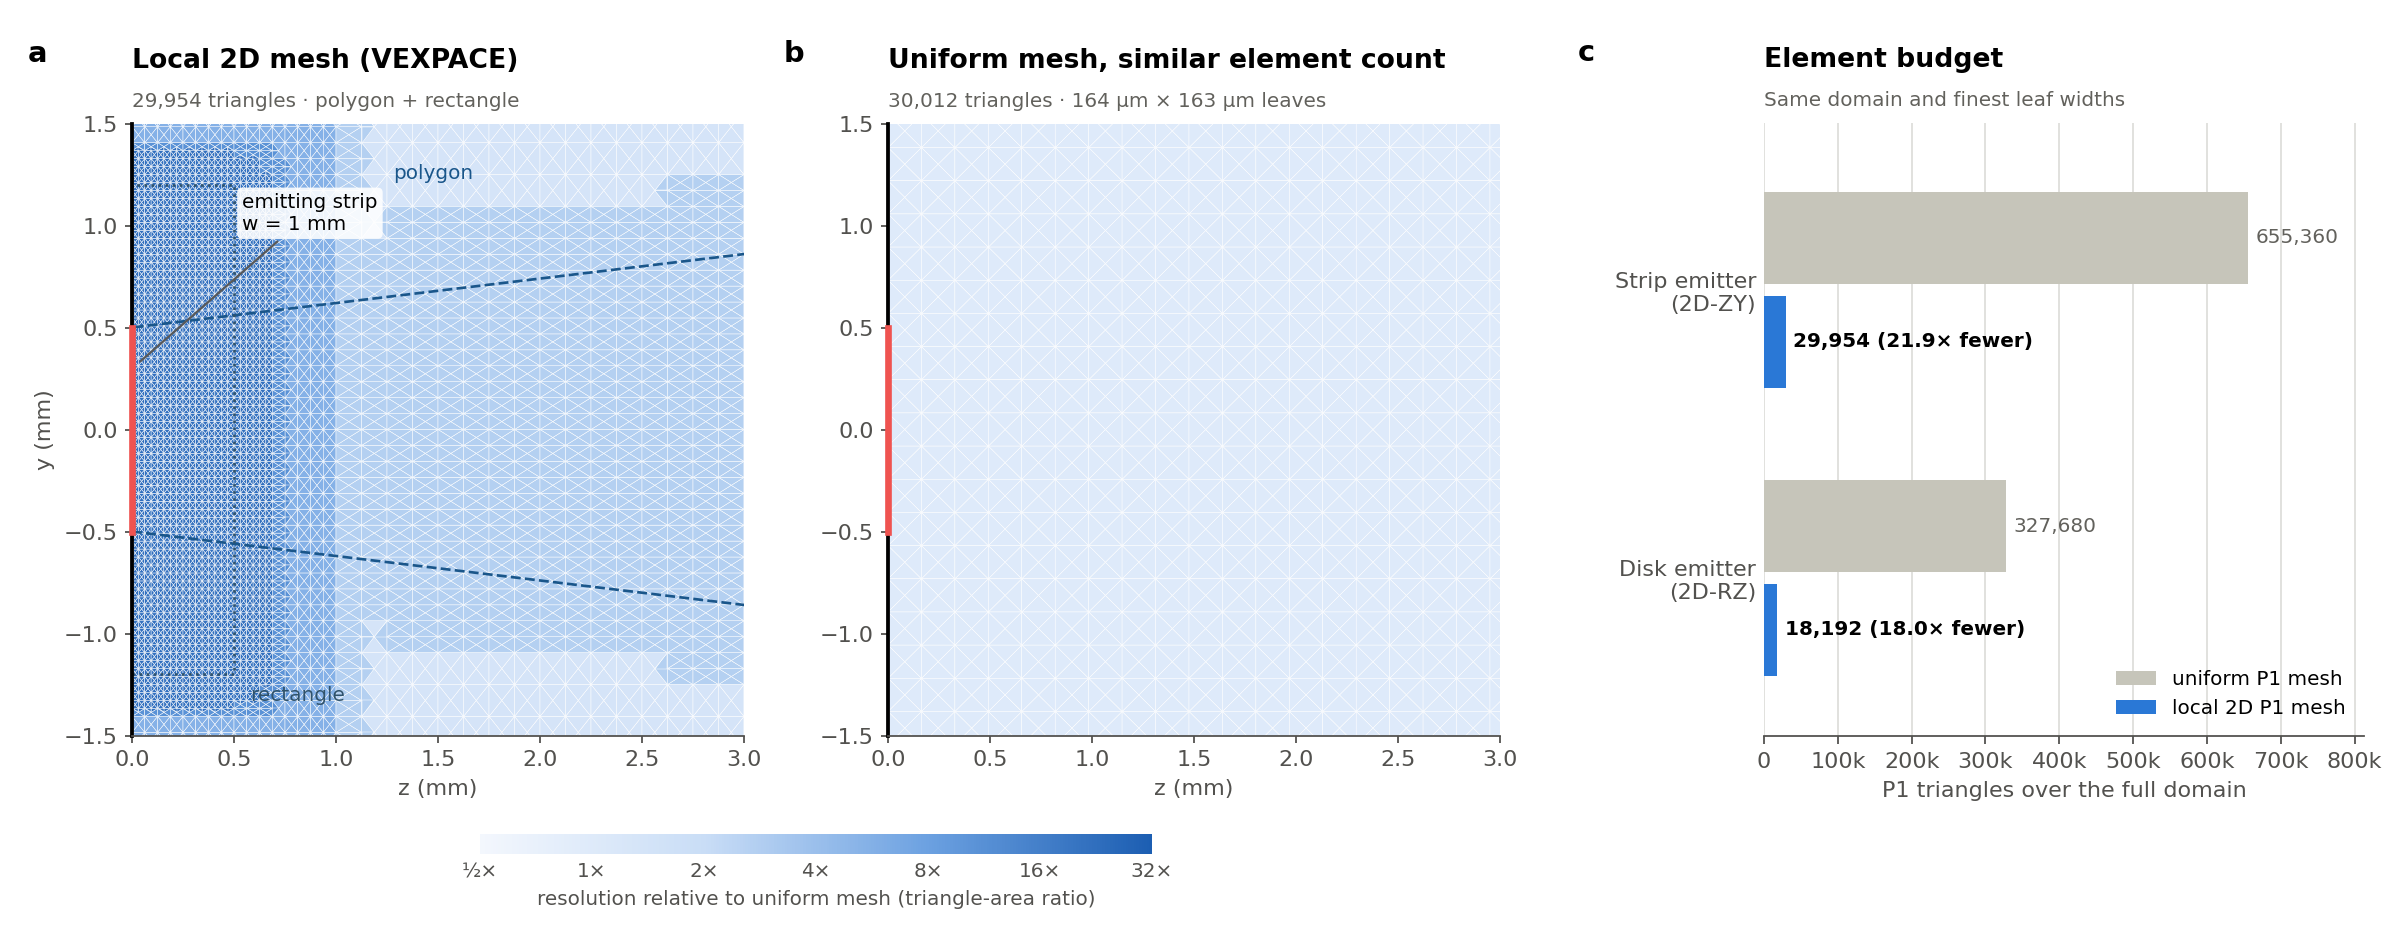
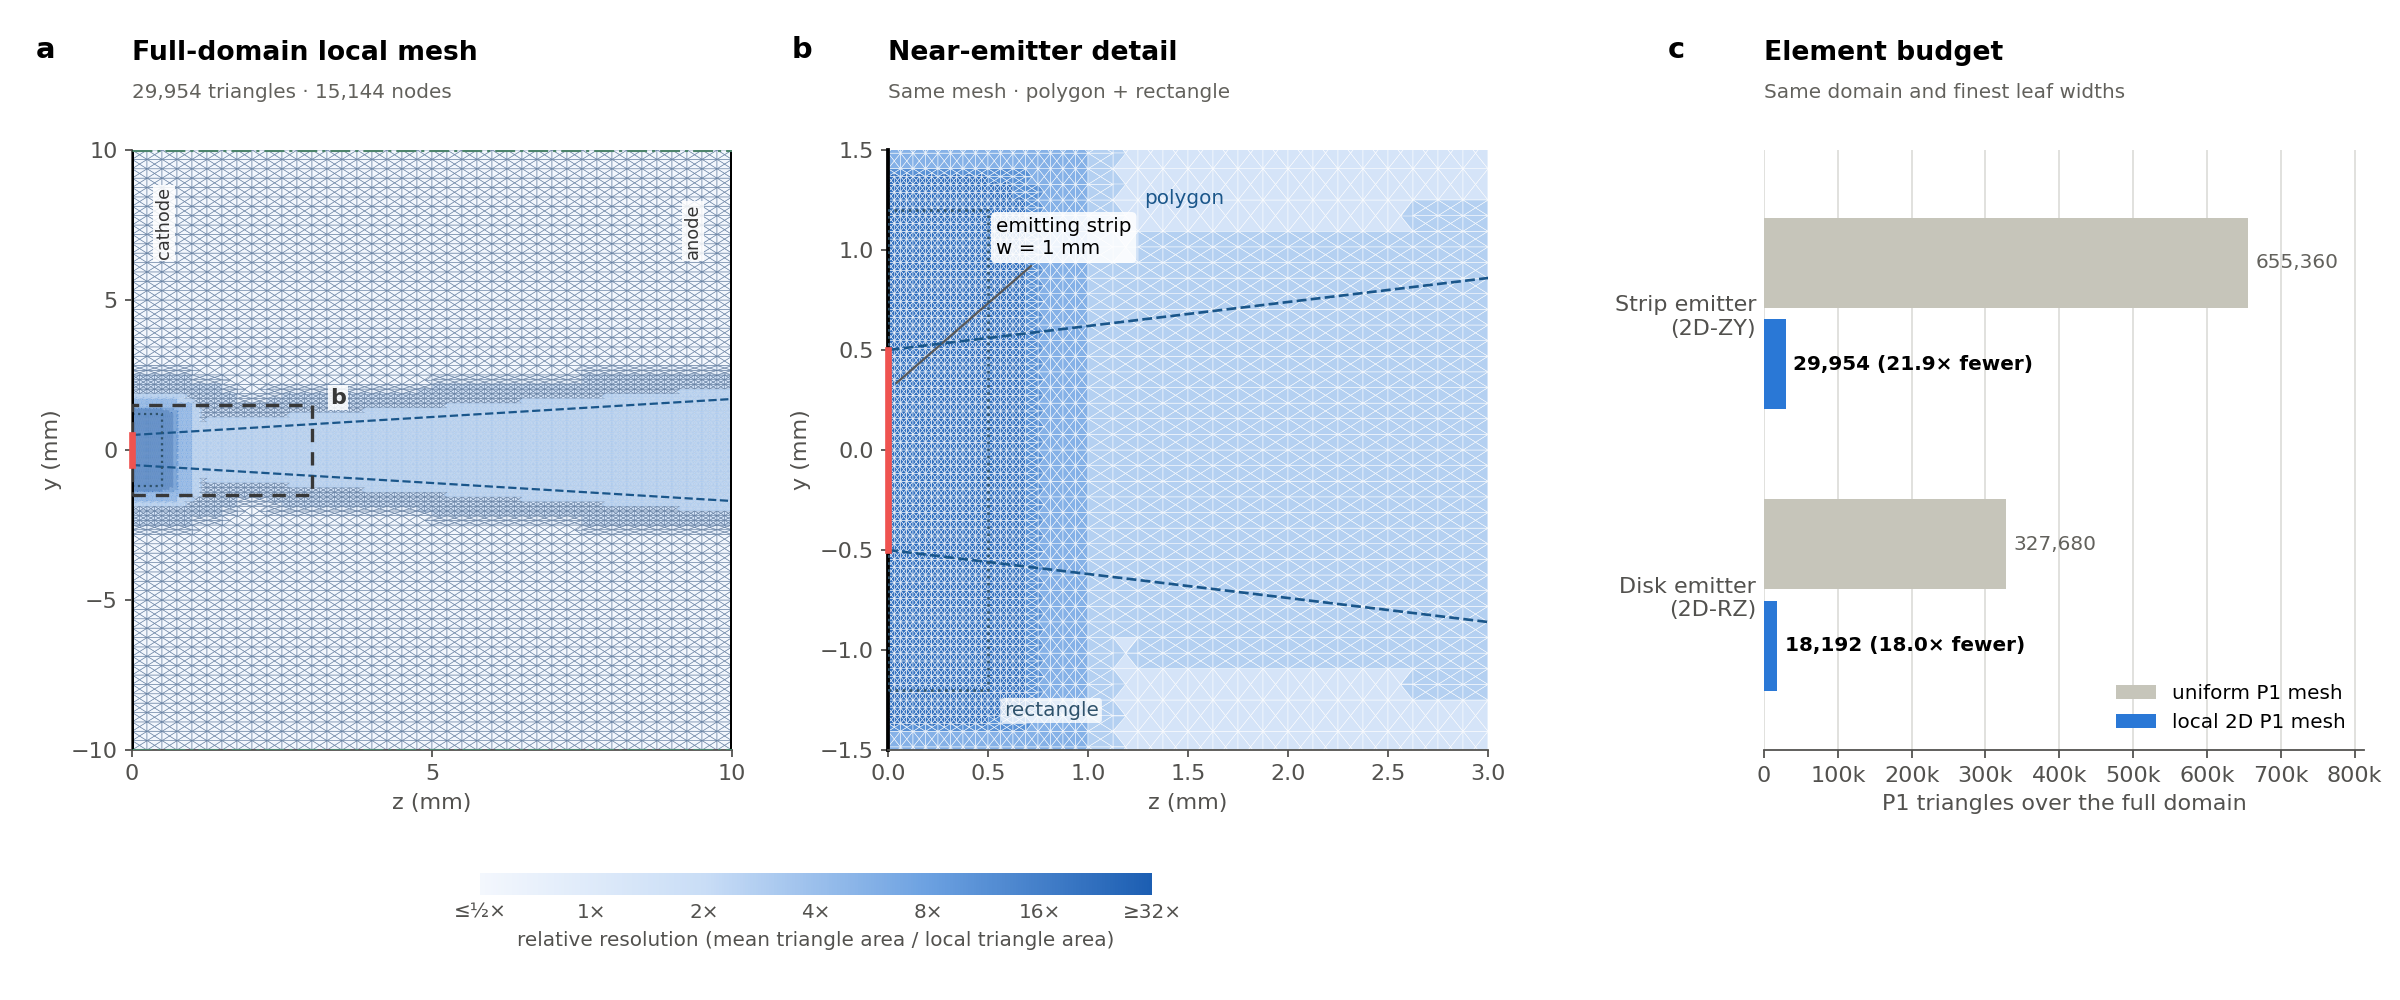
Redesign mesh figure with full domain and equal-sized detail panels

diff --git a/docs/make_mesh_refinement.py b/docs/make_mesh_refinement.py
@@ -1,4 +1,4 @@
-"""Reproduce the README local-P1 / uniform-P1 mesh comparison from actual meshes.
+"""Reproduce the README full-domain / detail / element-budget figure from actual meshes.
 
 Run with tfgpu Python: python docs/make_mesh_refinement.py
 The saved models describe mesh demonstrations, not new PIC limit measurements.
@@ -6,7 +6,6 @@ The saved models describe mesh demonstrations, not new PIC limit measurements.
 from pathlib import Path
 import argparse
 import json
-import math
 import numpy as np
 import matplotlib.pyplot as plt
 from matplotlib.collections import PolyCollection
@@ -54,17 +53,6 @@ def mesh_metrics(model):
     return mesh,metrics
 
 
-def uniform_triangles(bounds,nz,ny):
-    z=np.linspace(bounds[0,0],bounds[1,0],nz+1)
-    y=np.linspace(bounds[0,1],bounds[1,1],ny+1)
-    za,ya=np.meshgrid(z[:-1],y[:-1],indexing='ij')
-    zb,yb=np.meshgrid(z[1:],y[1:],indexing='ij')
-    a=np.c_[za.ravel(),ya.ravel()];b=np.c_[zb.ravel(),ya.ravel()]
-    c=np.c_[zb.ravel(),yb.ravel()];d=np.c_[za.ravel(),yb.ravel()]
-    center=(a+c)/2
-    return np.concatenate([np.stack((center,p,q),axis=1) for p,q in ((a,b),(b,c),(c,d),(d,a))])
-
-
 def main():
     parser=argparse.ArgumentParser()
     parser.add_argument('--root',type=Path,default=Path(__file__).resolve().parents[1])
@@ -75,43 +63,62 @@ def main():
     for geometry,m in models.items():
         (out/f'mesh_demo_{geometry[-2:].lower()}.pic.json').write_text(json.dumps(m,indent=2)+'\n')
     mesh,metrics=pairs['2D-ZY'];bounds=np.array([mesh.points.min(0),mesh.points.max(0)])
-    aspect=np.ptp(bounds[:,0])/np.ptp(bounds[:,1]);budget=metrics['triangles']/4
-    nz=max(1,round(math.sqrt(budget*aspect)));ny=max(1,round(budget/nz))
-    uniform=uniform_triangles(bounds,nz,ny);uniform_area=np.prod(np.ptp(bounds,axis=0))/len(uniform)
+    mean_area=np.prod(np.ptp(bounds,axis=0))/metrics['triangles']
+    ratio=mean_area/mesh.area
     cmap=LinearSegmentedColormap.from_list('mesh_blue',['#f3f7fd','#c9ddf6','#6ca1e1','#1c5eb2'])
-    norm=LogNorm(.5,32)
+    norm=LogNorm(.5,32,clip=True)
     plt.rcParams.update({'font.family':'DejaVu Sans','font.size':10,'axes.labelcolor':'#52514e',
         'xtick.color':'#52514e','ytick.color':'#52514e','axes.edgecolor':'#52514e',
         'axes.spines.top':False,'axes.spines.right':False,'savefig.facecolor':'white'})
-    fig=plt.figure(figsize=(15,5.9),layout=None)
-    axes=[fig.add_axes([.055,.22,.255,.65]),fig.add_axes([.37,.22,.255,.65]),fig.add_axes([.735,.22,.25,.65])]
+    fig=plt.figure(figsize=(15,6.25),layout=None)
+    axes=[fig.add_axes([x,.25,.25,.60]) for x in (.055,.37,.735)]
     collection=None
-    for i,(ax,triangles) in enumerate(zip(axes[:2],(mesh.points[mesh.triangles],uniform))):
-        ratio=uniform_area/mesh.area if i==0 else np.ones(len(uniform))
-        collection=PolyCollection(triangles*1000,array=ratio,cmap=cmap,norm=norm,
-            edgecolors='white',linewidths=.22,rasterized=True)
-        ax.add_collection(collection);ax.set(xlim=(0,3),ylim=(-1.5,1.5),xlabel='z (mm)')
-        ax.set_aspect('equal');ax.spines['left'].set_color('black');ax.spines['left'].set_linewidth(1.7)
-        ax.plot([0,0],[-.5,.5],color='#ef5350',lw=3,clip_on=False,zorder=10)
-        ax.tick_params(direction='out',length=3)
-    axes[0].set_ylabel('y (mm)')
-    axes[0].annotate('emitting strip\nw = 1 mm',xy=(.025,.32),xytext=(.54,.98),fontsize=9,
-        bbox=dict(boxstyle='round,pad=.25',fc='white',ec='none',alpha=.88),arrowprops=dict(arrowstyle='-',color='.35'))
     ev=evaluator(models['2D-ZY'])
     from picstudio.mesh.local import Region
-    for spec,style,color in zip(models['2D-ZY']['mesh_refinements'],('--',':'),('#1a568a','#2f526b')):
-        points=Region(spec,ev).points*1000;points=np.vstack((points,points[0]))
-        axes[0].plot(*points.T,style,color=color,lw=1.2)
-    axes[0].text(1.28,1.23,'polygon',color='#1a568a',fontsize=9)
-    axes[0].text(.58,-1.33,'rectangle',color='#2f526b',fontsize=9)
-    titles=['Local 2D mesh (VEXPACE)','Uniform mesh, similar element count','Element budget']
-    subtitles=[f"{metrics['triangles']:,} triangles · polygon + rectangle",
-        f'{len(uniform):,} triangles · {10000/nz:.0f} µm × {20000/ny:.0f} µm leaves',
-        'Same domain and finest leaf widths']
-    for i,ax in enumerate(axes):
-        ax.text(-.17 if i<2 else -.31,1.10,'abc'[i],transform=ax.transAxes,fontsize=13,fontweight='bold')
-        ax.text(0,1.09,titles[i],transform=ax.transAxes,fontsize=12,fontweight='bold')
-        ax.text(0,1.027,subtitles[i],transform=ax.transAxes,fontsize=9,color='#62615c')
+    from matplotlib.patches import Rectangle
+    for i,ax in enumerate(axes[:2]):
+        if i==0:
+            # Show every edge, but lighten dense fine cells so coarse cells and
+            # the zoom frame remain readable at full-domain scale.
+            edges=np.tile([.36,.47,.61,1.],(len(ratio),1))
+            edges[:,3]=np.where(ratio<1.5,.82,.12)
+            linewidths=np.where(ratio<1.5,.29,.10)
+        else:
+            edges='white';linewidths=.22
+        collection=PolyCollection(mesh.points[mesh.triangles]*1000,array=ratio,cmap=cmap,norm=norm,
+            edgecolors=edges,linewidths=linewidths,rasterized=True)
+        ax.add_collection(collection)
+        if i==0:
+            ax.set(xlim=(0,10),ylim=(-10,10),xticks=[0,5,10],yticks=[-10,-5,0,5,10])
+            # Show both physical electrodes and the periodic side boundaries.
+            for z in (0,10):ax.plot([z,z],[-10,10],color='black',lw=1.8,zorder=7)
+            for y in (-10,10):ax.plot([0,10],[y,y],color='#4d846c',ls='-.',lw=1.4,zorder=7)
+            ax.add_patch(Rectangle((0,-1.5),3,3,fill=False,ec='#383838',ls=(0,(4,3)),lw=1.5,zorder=8))
+            ax.text(3.3,1.55,'b',fontsize=10,fontweight='bold',color='#383838',bbox=dict(fc='white',ec='none',alpha=.85,pad=1))
+            ax.text(.38,6.5,'cathode',rotation=90,fontsize=8,color='#343434',bbox=dict(fc='white',ec='none',alpha=.85,pad=1))
+            ax.text(9.5,6.5,'anode',rotation=90,fontsize=8,color='#343434',ha='right',bbox=dict(fc='white',ec='none',alpha=.85,pad=1))
+        else:
+            ax.set(xlim=(0,3),ylim=(-1.5,1.5))
+            ax.spines['left'].set_color('black');ax.spines['left'].set_linewidth(1.7)
+        ax.set(xlabel='z (mm)',ylabel='y (mm)');ax.set_aspect('auto')
+        ax.plot([0,0],[-.5,.5],color='#ef5350',lw=3,clip_on=False,zorder=10)
+        ax.tick_params(direction='out',length=3)
+        for spec,style,color in zip(models['2D-ZY']['mesh_refinements'],('--',':'),('#1a568a','#2f526b')):
+            points=Region(spec,ev).points*1000;points=np.vstack((points,points[0]))
+            ax.plot(*points.T,style,color=color,lw=1 if i==0 else 1.2,zorder=6)
+    axes[1].annotate('emitting strip\nw = 1 mm',xy=(.025,.32),xytext=(.54,.98),fontsize=9,
+        bbox=dict(boxstyle='round,pad=.25',fc='white',ec='none',alpha=.88),arrowprops=dict(arrowstyle='-',color='.35'))
+    axes[1].text(1.28,1.23,'polygon',color='#1a568a',fontsize=9)
+    axes[1].text(.58,-1.33,'rectangle',color='#2f526b',fontsize=9,
+        bbox=dict(boxstyle='round,pad=.15',fc='white',ec='none',alpha=.78))
+    titles=['Full-domain local mesh','Near-emitter detail','Element budget']
+    subtitles=[f"{metrics['triangles']:,} triangles · {metrics['nodes']:,} nodes",
+        'Same mesh · polygon + rectangle','Same domain and finest leaf widths']
+    # Keep panel headers aligned even though panel a has a taller physical aspect.
+    for i,x in enumerate((.055,.37,.735)):
+        fig.text(x-.04,.942,'abc'[i],fontsize=13,fontweight='bold')
+        fig.text(x,.94,titles[i],fontsize=12,fontweight='bold')
+        fig.text(x,.902,subtitles[i],fontsize=9,color='#62615c')
     ax=axes[2];labels=['Strip emitter\n(2D-ZY)','Disk emitter\n(2D-RZ)']
     uniform_counts=[pairs[g][1]['uniform_finest_triangles'] for g in models]
     local_counts=[pairs[g][1]['triangles'] for g in models]
@@ -127,14 +134,16 @@ def main():
     ax.xaxis.set_major_formatter(FuncFormatter(lambda v,_:f'{v/1000:g}k' if v else '0'))
     ax.grid(axis='x',color='#dededb',lw=.8);ax.set_axisbelow(True)
     ax.legend(loc='lower right',fontsize=9,frameon=False)
-    cax=fig.add_axes([.20,.095,.28,.022]);cbar=fig.colorbar(collection,cax=cax,orientation='horizontal')
-    cbar.set_ticks([.5,1,2,4,8,16,32],labels=['½×','1×','2×','4×','8×','16×','32×'])
+    cax=fig.add_axes([.20,.105,.28,.022]);cbar=fig.colorbar(collection,cax=cax,orientation='horizontal')
+    cbar.set_ticks([.5,1,2,4,8,16,32],labels=['≤½×','1×','2×','4×','8×','16×','≥32×'])
     cbar.outline.set_visible(False);cbar.ax.tick_params(length=0,labelsize=9)
     cbar.minorticks_off()
-    cbar.set_label('resolution relative to uniform mesh (triangle-area ratio)',fontsize=9)
+    cbar.set_label('relative resolution (mean triangle area / local triangle area)',fontsize=9)
     fig.savefig(out/'mesh_refinement.png',dpi=160)
     allmetrics={g:v[1] for g,v in pairs.items()}
-    allmetrics['same_budget_uniform_triangles']=len(uniform)
+    allmetrics['figure_panels']={'a':'Full strip domain: z = 0..10 mm, y = -10..10 mm; both electrodes and periodic sides',
+        'b':'Same mesh near the emitter: z = 0..3 mm, y = -1.5..1.5 mm',
+        'c':'Local / uniform P1 triangle counts over each full domain, with matching finest leaf widths'}
     (out/'mesh_refinement_counts.json').write_text(json.dumps(allmetrics,indent=2)+'\n')
     print(json.dumps(allmetrics,indent=2))
 

diff --git a/README.md b/README.md
@@ -109,10 +109,12 @@ Emitter endpoints are fitted locally at the boundary without adding an unwanted 
 The comparison below uses actual rectangle/polygon meshes at d = 1 cm. The strip mesh has **29,954
 triangles** and the disk mesh **18,192**. A uniform P1 mesh with the same smallest leaf widths
 (31.25 µm × 39.06 µm) needs **655,360** and **327,680** triangles, respectively: **21.9×** and **18.0×**
-more. These are full-domain element counts, not measured runtime speedups; panels a and b zoom in near
-the strip emitter. Both uniform comparisons use the same four-triangle center-fan construction.
+more. Panel **a** shows the full strip domain with both electrodes and periodic sides; the dashed frame
+marks the near-emitter detail in **b**. Panel **c** compares full-domain element budgets. These are element
+counts, not measured runtime speedups; the uniform references use the same four-triangle center-fan construction.
+All three panels have equal display dimensions; panel a uses separate coordinate scales to show the full domain.
 
-<p align="center"><img src="docs/images/mesh_refinement.png" alt="Local polygon and rectangle refinement versus uniform P1 triangles, with measured strip and disk element budgets" width="1000"></p>
+<p align="center"><img src="docs/images/mesh_refinement.png" alt="Full-domain local triangular mesh, near-emitter polygon/rectangle detail, and strip/disk element budgets" width="1000"></p>
 
 Refinement is available for **2D-ZY and 2D-RZ electrostatics**; use a gentle transition (growth 1.05–1.2)
 and check mesh convergence. Local P1 runs require **smoothing = 0**. With the electromagnetic solver,
